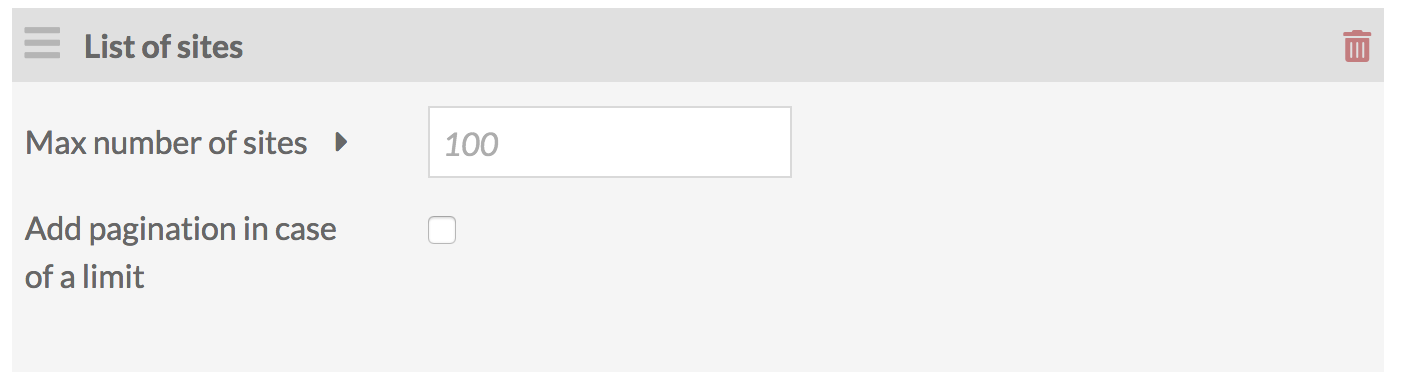
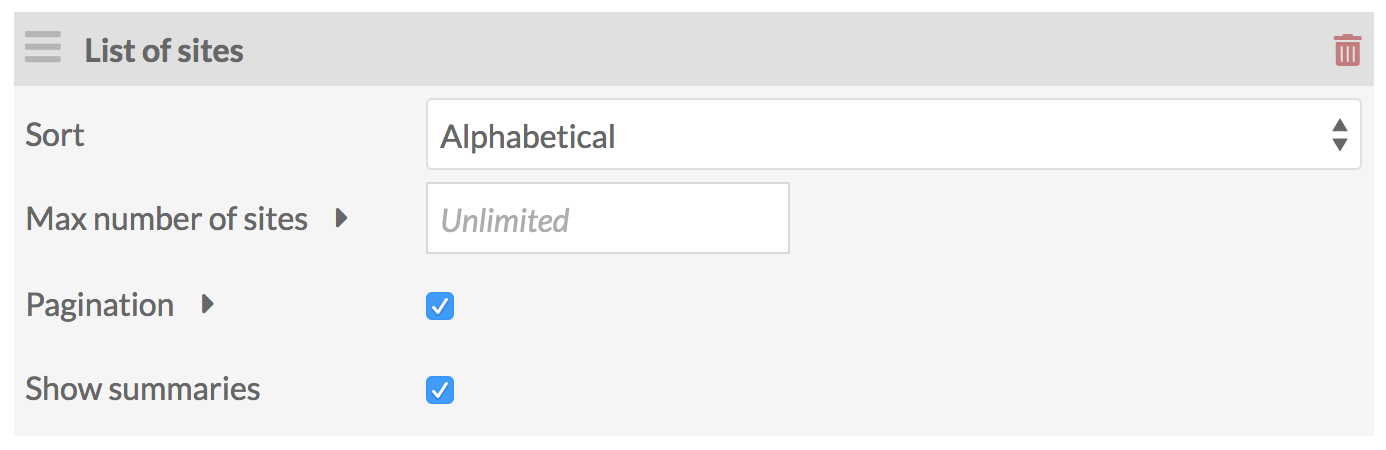
site list summaries

diff --git a/docs/sites/site_pages.md b/docs/sites/site_pages.md
@@ -158,21 +158,26 @@ Once you’ve added an item, it will appear in the Item List block. You can edit
 You can add multiple items to the list.
 
 ### List of sites
-This block displays a list of the sites on your Omeka S install. There are two options:
+This block displays a list of the sites on your Omeka S install. This block has the following options:
 
 ![List of sites block](../sites/sitesfiles/sitepg_slist1.png)
 
-Max number of sites allows you to limit the number of sites which display at once. If left blank, all sites will display.
+- Sort sites by: Alphabetical order (A-Z); Oldest first; newest first. By default this is set to alphabetical. 
+- Max number of sites allows you to limit the number of sites which display at once. If left blank, all sites will display.
+- A checkbox to turn on pagination, applied only if you set a limit.
+- Show site summaries.  
 
-The second option allows you to turn on pagination if you set a limit, allowing you to display five sites at a time. 
-
-This image shows a List of sites block with no limits:
+This image shows a List of sites block, sorted oldest first, with no limits:
 
 ![](../sites/sitesfiles/sitepg_slist2.png)
 
 This is the same block edited to have a limit of 5 and pagination is turned on:
 
 ![](../sites/sitesfiles/sitepg_slist3.png)
+
+The same block with pagination and site summaries turned on:
+
+![](../sites/sitesfiles/sitepg_slist4.png)
 
 ### Table of Contents
 If the current page has child pages, you can add a table of content block for those pages.

diff --git a/docs/sites/index.md b/docs/sites/index.md
@@ -84,13 +84,13 @@ The site info settings for an Omeka S site are where you can change the basic in
 
 * *title* (text)
 * *slug* (text)
+* *summary* (text) 
 
 ![Site info for the site “Jane Austen” with buttons across the top to View, Delete, and Save the site](../sites/sitesfiles/sites_siteinfo.png)
 
 In the upper right hand corner of the window on this tab, you can use buttons to:
 
 - *Public/Private button* (see below);
-- *View* the public side of the site;
 - *Delete* the site;
 - *Cancel* making changes;
 - *Save* changes.
